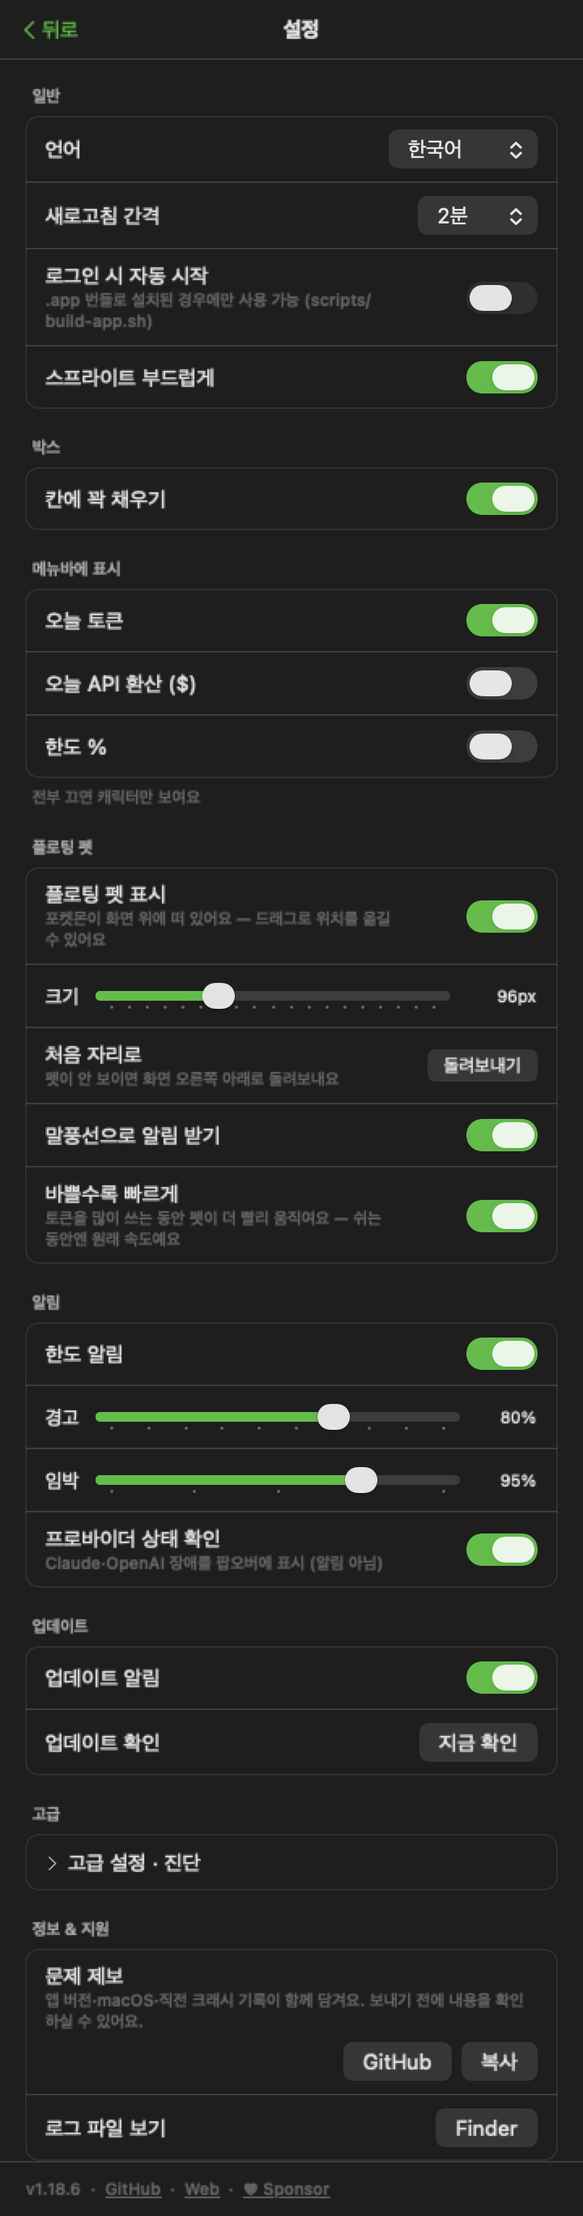
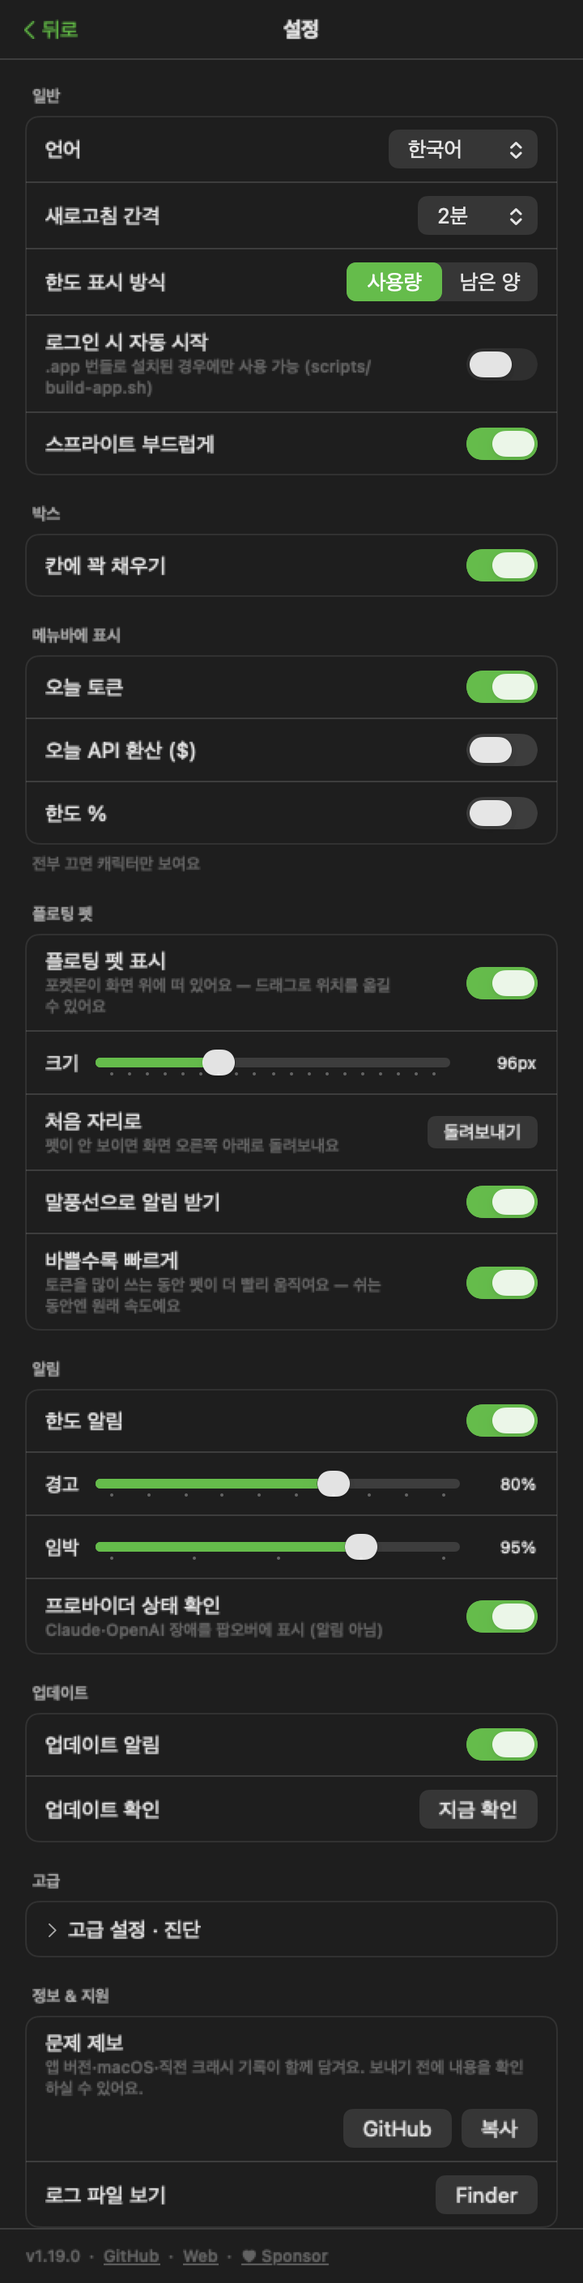
docs: tour the usage recap, pace gauges and multi-account limits (en/ko/ja)
Two new screenshots (usage recap, Claude account tabs) join the tour
and the feature list; the privacy section now names claude.ai as the
ninth host (session-key path, only when a key is pasted) and documents
the plaintext owner-only key file. The screenshot generator seeds a
day ledger for the recap shot, builds a stubbed two-account store for
the accounts shot, and isolates LastCrash so the crash banner planted
for report.png no longer leaks into every later home-family shot.

diff --git a/Tests/PokeDexBarTests/ScreenshotGenerator.swift b/Tests/PokeDexBarTests/ScreenshotGenerator.swift
@@ -561,16 +561,94 @@ final class ScreenshotGeneratorTests: XCTestCase {
         limits.subscriptionType = "max"
         limits.rateLimitTier = "default_claude_max_20x"
 
+        let defaults = UserDefaults(suiteName: "ptb-shot-usage-\(UUID().uuidString)")!
+        // 리캡(#332)용 일별 원장 — 지난 5주를 "주중 많고 주말 쉬는" 리듬으로 시드한다.
+        var ledger = UsageLedger()
+        let dayFmt = LocalUsageReader.localDayFormatter()
+        let calendar = Calendar.current
+        ledger.merge((0..<35).reversed().map { back -> DailyUsage in
+            let date = calendar.date(byAdding: .day, value: -back, to: now)!
+            let weekday = calendar.component(.weekday, from: date)
+            let weekend = weekday == 1 || weekday == 7
+            let tokens = weekend ? (back % 3 == 0 ? 2_400_000 : 0)
+                                 : (14_000_000 + (back * 37 % 11) * 2_600_000)
+            return DailyUsage(date: dayFmt.string(from: date), inputTokens: tokens / 2,
+                              outputTokens: tokens / 2, cacheCreationTokens: 0, cacheReadTokens: 0,
+                              totalTokens: tokens, totalCost: 0)
+        })
+        ledger.save(to: defaults)
         let store = UsageStore(providers: providers,
                                claudeLimitsProvider: StubClaudeLimits(status: limits),
                                codexLimitsProvider: StubCodexLimits(),
                                statusProvider: StubStatusProvider(),
                                autoRefresh: false,
-                               defaults: UserDefaults(suiteName: "ptb-shot-usage-\(UUID().uuidString)")!)
+                               defaults: defaults)
         await store.refresh(scheduleEmptyRetry: false)
         XCTAssertGreaterThan(store.todayTotalTokens, 0, "사용량 시드가 안 들어갔다")
         XCTAssertNotNil(store.limits?.fiveHour?.utilization, "공식 한도 시드가 안 들어갔다")
         XCTAssertNotNil(store.fiveHourForecast, "소진 예측 줄이 안 나온다 — 블록/한도 시드가 어긋났다")
+        return store
+    }
+
+    /// 다중 계정 샷(#327)용 — 기본 계정(개인 Max) + 회사 폴더 계정. 폴더·자격증명은 전부 스텁이라
+    /// 실 디스크·Keychain 을 건드리지 않는다.
+    private func makeMultiAccountUsageStore() async throws -> UsageStore {
+        let base = try await makeUsageStore()
+        _ = base   // 시드 검증 재사용 목적 없음 — 아래는 별도 스토어
+
+        let iso = ISO8601DateFormatter()
+        let now = Date()
+        func status(fiveHour: Double, sevenDay: Double, email: String, org: String?) throws -> LimitStatus {
+            let json = """
+            {"five_hour":{"utilization":\(fiveHour),
+              "resets_at":"\(iso.string(from: now.addingTimeInterval(96 * 60)))"},
+             "seven_day":{"utilization":\(sevenDay),
+              "resets_at":"\(iso.string(from: now.addingTimeInterval(3.2 * 86_400)))"}}
+            """
+            var s = try JSONDecoder().decode(LimitStatus.self, from: Data(json.utf8))
+            s.accountEmail = email
+            s.accountOrganizationName = org
+            return s
+        }
+        var personal = try status(fiveHour: ScreenshotFixture.fiveHourUtilization,
+                                  sevenDay: ScreenshotFixture.sevenDayUtilization,
+                                  email: "mina@example.com", org: nil)
+        personal.subscriptionType = "max"
+        personal.rateLimitTier = "default_claude_max_20x"
+        let work = try status(fiveHour: 71, sevenDay: 48, email: "mina@acme.dev", org: "Acme")
+
+        let workRoot = URL(fileURLWithPath: NSHomeDirectory()).appendingPathComponent(".claude-work")
+        let providers: [any UsageProvider] = ScreenshotFixture.usage.map { entry in
+            var enrichment = ProviderEnrichment()
+            enrichment.periodsOK = true
+            enrichment.weekTotal = PeriodUsage(period: "week", totalTokens: entry.week,
+                                               totalCost: entry.weekCost)
+            enrichment.monthTotal = PeriodUsage(period: "month", totalTokens: entry.month,
+                                                totalCost: entry.monthCost)
+            let total = entry.input + entry.output + entry.cacheWrite + entry.cacheRead
+            let daily = DailyUsage(date: LocalUsageReader.todayKey(), inputTokens: entry.input,
+                                   outputTokens: entry.output, cacheCreationTokens: entry.cacheWrite,
+                                   cacheReadTokens: entry.cacheRead, totalTokens: total, totalCost: entry.cost)
+            return StubUsageProvider(id: entry.id, displayName: entry.name, daily: daily, enrichment: enrichment)
+        }
+        let store = UsageStore(
+            providers: providers,
+            claudeLimitsProvider: StubClaudeLimits(status: personal),
+            additionalClaudeLimitsProvider: { _ in StubClaudeLimits(status: work) },
+            discoverClaudeConfigDirs: { [workRoot] },
+            readDefaultIdentity: { AccountIdentity(email: "mina@example.com", organizationName: nil) },
+            readLastPrompt: { root in
+                root.lastPathComponent == ".claude-work" ? now.addingTimeInterval(-40 * 60)
+                                                         : now.addingTimeInterval(-6 * 60)
+            },
+            claudeUsageEntries: { _ in [] },
+            readPromptHistory: { _ in [:] },
+            codexLimitsProvider: StubCodexLimits(),
+            statusProvider: StubStatusProvider(),
+            autoRefresh: false,
+            defaults: UserDefaults(suiteName: "ptb-shot-accounts-\(UUID().uuidString)")!)
+        await store.refresh(scheduleEmptyRetry: false)
+        XCTAssertEqual(store.claudeAccounts.count, 2, "계정 탭 시드가 안 들어갔다")
         return store
     }
 
@@ -902,6 +980,14 @@ final class ScreenshotGeneratorTests: XCTestCase {
         }
         defer { AppEnv.appVersionOverride = nil }
 
+        // 크래시 배너는 머신 상태다 — 실 앱의 last-crash 기록이 남아 있으면 모든 홈 계열 샷에
+        // "예기치 않게 종료" 카드가 끼어든다(실측: 1.19.0 재생성 때 홈·계정 샷에 혼입).
+        // 전용 샷(report.png)만 자체 픽스처로 찍고, 나머지는 빈 임시 파일을 보게 한다.
+        let realCrashURL = LastCrash.fileURL
+        LastCrash.fileURL = FileManager.default.temporaryDirectory
+            .appendingPathComponent("ptb-shot-lastcrash-\(UUID().uuidString).json")
+        defer { LastCrash.fileURL = realCrashURL }
+
         // 디스크에서 읽어 오는 그림은 **미리 캐시에 올려 둔다.** 첫 접근이 디스크 읽기 + PNG
         // 디코드를 동기로 하는데, 아래 애니메이션 캡처는 `pump(0.05)` 창 안에서 레이아웃이
         // 끝나기를 기대한다 — 그 창에 디코드가 끼면 프레임 간격이 밀리고 연출 단계가 잘린다
@@ -1066,7 +1152,11 @@ final class ScreenshotGeneratorTests: XCTestCase {
         // 심어야 배너가 찍힌다** — 안 심으면 아무리 다시 생성해도 빈 자리만 나온다(설정
         // 스크린샷에 플로팅 펫이 꺼져 있어 새 토글이 영영 안 찍히던 함정과 같은 부류).
         // §릴리스 1 하드 게이트가 요구하는 신규 에셋이 이것이다.
+        // crashReportBanner 는 전역 LastCrash.fileURL 에 미확인 기록을 심는다 — 복원하지 않으면
+        // 이후의 홈 계열 샷(계정 탭·home.gif)에 크래시 배너가 끼어든다(실측).
+        let cleanCrashURL = LastCrash.fileURL
         try write(png(crashReportBanner()), "report.png")
+        LastCrash.fileURL = cleanCrashURL
 
         // 태어날 때 정해지는 겉모습 — 이름 옆 배지가 그 개체가 어떤 무늬로 태어났는지 말한다.
         // 지방 배지와 같은 자리를 쓰므로, 이 그림 하나로 두 규칙이 같이 설명된다.
@@ -1127,6 +1217,29 @@ final class ScreenshotGeneratorTests: XCTestCase {
                           fullScroll: true),
                       "settings\(suffix).png")
         }
+
+        // 사용량 리캡(#332) — 주간 화면. 원장은 makeUsageStore 가 시드한다(오늘 기준 상대 날짜라
+        // 돌릴 때마다 모양이 같다 — 요일 축만 실행 요일을 따른다).
+        setLanguage(.en, fixture)
+        let recapUsage = try waitFor { try await self.makeUsageStore() }
+        recapUsage.localizationLanguage = .en
+        try write(png(RecapScreen(store: recapUsage, player: fixture.player, onBack: {})
+            .environment(recapUsage).environment(fixture.player)
+            .padding(PopoverMetrics.padding)
+            .frame(width: PopoverMetrics.width)
+            .background(Color(nsColor: .windowBackgroundColor))),
+                  "screenshot-usage-recap.png")
+
+        // 다중 Claude 계정(#327) + 계정 라벨(#199) — 홈 탭 한도 섹션의 계정 탭.
+        let accountsUsage = try waitFor { try await self.makeMultiAccountUsageStore() }
+        accountsUsage.localizationLanguage = .en
+        try write(png(PopoverView(player: fixture.player, provider: StubProvider())
+            .environment(accountsUsage).environment(fixture.player)
+            .environment(fixture.updater).environment(PopoverNavigation())
+            .environment(\.locale, Locale(identifier: "en_US"))
+            .background(Color(nsColor: .windowBackgroundColor)),
+                      fullScroll: true),
+                  "screenshot-claude-accounts.png")
 
         try generateAnimations()
     }

diff --git a/README.ko.md b/README.ko.md
@@ -55,6 +55,20 @@ PokeDexBar는 당신이 이미 태우고 있는 AI 코딩 토큰(Claude Code · 
 </td>
 </tr>
 <tr>
+<td width="45%" align="center"><img src="assets/screenshot-usage-recap.png" width="340" alt="사용량 리캡 — 레트로 휴대기기 프레임 위 일별 막대, 최고의 날·활동한 날·연속 기록·지난주 비교"></td>
+<td width="55%" valign="middle">
+<h3>📊 사용량 다시 보기</h3>
+아무 주·월·연도의 리캡: 일별 막대, 최고의 날, 활동한 날, 최장 연속, 그리고 직전 기간과의 비교. 앱이 스스로 쌓는 로컬 일별 원장으로 그려서 이번 달 너머까지 닿고 — 설치 전의 날들은 0이 아니라 "기록 없음"으로 표시됩니다.
+</td>
+</tr>
+<tr>
+<td width="45%" align="center"><img src="assets/screenshot-claude-accounts.png" width="340" alt="홈 탭의 공식 한도 아래 Claude 계정 탭 두 개 — 개인 Max 플랜과 팀 계정, 각자의 5시간·주간 바와 페이스 눈금"></td>
+<td width="55%" valign="middle">
+<h3>Claude 로그인 두 개, 탭 두 개</h3>
+나란히 쓰는 Claude Code 로그인(<code>CLAUDE_CONFIG_DIR</code>, <code>~/.claude-*</code> 폴더)마다 공식 한도에 전용 탭이 생기고, 알림과 로컬 사용량도 계정별로 갈립니다. 메뉴바는 설정에서 고른 계정을 따라가요. Keychain 프롬프트가 성가시다면 <b>claude.ai 세션 키</b>를 붙여넣으세요 — 그다음부터 한도는 Keychain 없이 백그라운드에서 계속 갱신됩니다.
+</td>
+</tr>
+<tr>
 <td width="55%" valign="middle">
 <h3>메뉴바 속 파트너</h3>
 움직이는 Gen-V 스프라이트가 오늘 토큰 합계(compact, 예: <code>200.7M</code>) 옆에 삽니다. 오늘 API 환산(<code>$</code>)이나 공식 한도 <code>%</code> 를 더하거나 — 전부 꺼서 캐릭터만 남길 수도 있어요.
@@ -307,7 +321,12 @@ PokeDexBar는 당신이 이미 태우고 있는 AI 코딩 토큰(Claude Code · 
 
 - **인터랙티브 플로팅 펫** — 호버로 오늘 사용량, 클릭으로 메인 창, 우클릭 메뉴; 한도 알림은 말풍선으로도 표시. **토큰을 많이 쓰는 동안에는 더 빨리 움직이고** 쉬는 동안엔 원래 속도예요(설정, 기본 켬).
 - **서비스별 탭** — Claude Code·Codex·Gemini CLI·OpenCode·Hermes Agent·Cursor·Grok CLI 중 2개 이상 감지되면 작은 탭으로 상세를 서비스별 전환(오늘 합계는 통합 유지).
-- **공식 한도** — Claude·Codex 5시간/주간 사용률 + 리셋 카운트다운을 오늘 숫자 바로 아래에.
+- **공식 한도** — Claude·Codex 5시간/주간 사용률 + 리셋 카운트다운과 절대 리셋 시각을 오늘 숫자 바로 아래에. 퍼센트는 **사용/잔여** 중 원하는 쪽으로.
+- **페이스 게이지** — 모든 쿼터바에 "균등하게 썼다면 여기" 눈금이 서고, 바(원하면 메뉴바 % 까지)가 페이스 대비 6단계 색으로 칠해집니다.
+- **일별 트렌드** — 합계 아래 이번 달 일별 막대. 달력 월 기준으로 자리 잡고, 두 도구 이상을 쓴 달엔 프로바이더별로 쌓입니다. 막대에 호버하면 그날의 숫자.
+- **사용량 리캡** — 주/월/연 다시 보기: 최고의 날·활동한 날·최장 연속·직전 기간 같은-날짜 비교.
+- **Claude 다중 계정** — 추가 Claude Code 설정 폴더를 자동 감지(또는 설정에 등록)해 계정마다 전용 한도 탭·알림·사용량 분배. 포크된 세션은 원래 계정에 남습니다.
+- **claude.ai 세션 키(선택)** — `sessionKey` 쿠키를 한 번 붙여넣으면 Keychain 접근 없이 공식 한도가 자동 갱신됩니다. 추가 계정도 각자 키를 가질 수 있어요.
 - **소진 예측** — 현재 5시간 창이 100%에 도달할 시각 예측.
 - **인앱 업데이트** — 원클릭 업데이트 확인, 설정에 현재 버전 표시.
 - **메가진화 & 거다이맥스** — 메가스톤이나 다이버섯으로 지정한 포켓몬을 80종의 폼 중 하나로 바꿉니다(리자몽처럼 메가 폼이 둘인 종은 X/Y 모두 제공). 원래 모습으로 되돌리는 건 무료고, 진화하면 폼이 풀립니다.
@@ -385,8 +404,8 @@ swift test                   # 단위 테스트
 ## 프라이버시 & 권한
 
 - **온디바이스.** 토큰 사용량은 로컬 Claude Code·Codex·Gemini CLI·OpenCode·Hermes Agent·Cursor·Grok CLI 데이터에서 직접 읽습니다. 사용량을 업로드하거나 모델 turn을 실행하지 않습니다.
-- **외부 요청.** 앱은 완전 오프라인이 아닙니다. 8개 호스트에 접속합니다 — `pokeapi.co`·`graphql.pokeapi.co`(종·진화 데이터), `play.pokemonshowdown.com`(포켓몬 스프라이트), `raw.githubusercontent.com`(아이템·알 스프라이트), `api.anthropic.com`(Claude 공식 한도), `status.claude.com`·`status.openai.com`(장애 배너 — 설정에서 끌 수 있음), `api.github.com`(업데이트 확인). **어느 요청에도 사용량·토큰·프롬프트·프로젝트 경로는 담기지 않습니다** — 요청 자체만 나갑니다.
-- **Keychain(선택).** Claude OAuth 자격증명은 **갱신 버튼을 누를 때만** 읽습니다(설정, 또는 팝오버의 한도 행). 자동 폴링은 Keychain 을 건드리지 않으므로 비밀번호 프롬프트가 뜨지 않고, `~/.claude/.credentials.json` 이 있으면 그쪽에서 가져옵니다. 토큰은 메모리에만 두며 **앱 자체 Keychain 항목은 만들지 않습니다.** 토큰이 만료되면 한도는 갱신 전까지 이전 값(stale)으로 표시됩니다. 설정에서 끄면 한도 섹션만 숨겨집니다.
+- **외부 요청.** 앱은 완전 오프라인이 아닙니다. 9개 호스트에 접속합니다 — `pokeapi.co`·`graphql.pokeapi.co`(종·진화 데이터), `play.pokemonshowdown.com`(포켓몬 스프라이트), `raw.githubusercontent.com`(아이템·알 스프라이트), `api.anthropic.com`(Claude 공식 한도), `claude.ai`(세션 키로 한도 조회 — 키를 넣었을 때만), `status.claude.com`·`status.openai.com`(장애 배너 — 설정에서 끌 수 있음), `api.github.com`(업데이트 확인). **어느 요청에도 사용량·토큰·프롬프트·프로젝트 경로는 담기지 않습니다** — 요청 자체만 나갑니다.
+- **Keychain(선택).** Claude OAuth 자격증명은 **갱신 버튼을 누를 때만** 읽습니다(설정, 또는 팝오버의 한도 행). 자동 폴링은 Keychain 을 건드리지 않으므로 비밀번호 프롬프트가 뜨지 않고, `~/.claude/.credentials.json` 이 있으면 그쪽에서 가져옵니다. 토큰은 메모리에만 두며 **앱 자체 Keychain 항목은 만들지 않습니다.** 토큰이 만료되면 한도는 갱신 전까지 이전 값(stale)으로 표시됩니다. Keychain 을 아예 쓰고 싶지 않다면 설정 → 고급에 **claude.ai 세션 키**를 붙여넣으세요: 앱 폴더에 본인만 읽을 수 있는 평문 파일로 저장되고(암호화 아님 — 설정이 그 사실을 먼저 알립니다), 브라우저에서 로그아웃하면 즉시 무효화되며, 그다음부터 자동 폴링이 Keychain 을 전혀 건드리지 않고 한도를 갱신합니다. 설정에서 Keychain 을 끄면 한도 섹션만 숨겨집니다(세션 키가 있으면 계속 보입니다).
 - **포켓몬 에셋**은 런타임에 받아오며(종·진화 데이터는 PokéAPI, 스프라이트는 Pokémon Showdown) `~/Library/Application Support/PokeDexBar/`에만 캐시됩니다. 앱 바이너리와 릴리스 아티팩트에는 포켓몬 에셋이 포함되지 않습니다.
 
 ## 기여자

diff --git a/README.md b/README.md
@@ -55,6 +55,20 @@ Move your companion out of the menu bar and onto the desktop, at any size from 4
 </td>
 </tr>
 <tr>
+<td width="45%" align="center"><img src="assets/screenshot-usage-recap.png" width="340" alt="Usage recap — a week of day-by-day bars on a retro handheld frame, with best day, active days, streak and a comparison with last week"></td>
+<td width="55%" valign="middle">
+<h3>📊 Your usage, replayed</h3>
+A recap for any week, month or year: day-by-day bars, your best day, active days, longest streak, and how the period compares with the one before it. It is built from a local day ledger the app keeps itself, so it reaches past the current month — and days from before the app was installed are shown as unknown, not as zero.
+</td>
+</tr>
+<tr>
+<td width="45%" align="center"><img src="assets/screenshot-claude-accounts.png" width="340" alt="Home tab with two Claude account tabs under Limits (official) — a personal Max plan and a team account, each with its own 5-hour and weekly bars with pace markers"></td>
+<td width="55%" valign="middle">
+<h3>Two Claude logins, two tabs</h3>
+Side-by-side Claude Code logins (<code>CLAUDE_CONFIG_DIR</code>, <code>~/.claude-*</code> folders) each get their own tab in the official limits, with their own alerts and their own share of local usage. The menu bar follows the account you pick in Settings. And if the Keychain prompt bothers you, paste a <b>claude.ai session key</b> instead — limits then refresh in the background with no Keychain at all.
+</td>
+</tr>
+<tr>
 <td width="55%" valign="middle">
 <h3>In your menu bar</h3>
 An animated Gen-V sprite lives next to today's total tokens (compact, e.g. <code>200.7M</code>). Add today's API equivalent (<code>$</code>) or official limit <code>%</code> — or turn everything off for a character-only bar.
@@ -307,7 +321,12 @@ The shop sells seven things. The other 105 items only ever arrive in a partner's
 
 - **Interactive floating pet** — hover for today's usage, click to open the main window, right-click for a menu; limit alerts can pop up as speech bubbles. It also **moves faster while you're burning tokens** and idles at its normal speed (optional, on by default).
 - **Per-service tabs** — when two or more of Claude Code, Codex, Gemini CLI, OpenCode, Hermes Agent, Cursor, and Grok CLI are detected, compact tabs switch between them; today's total stays combined.
-- **Official limits** — Claude & Codex 5-hour / weekly utilization with reset countdowns, right under today's numbers.
+- **Official limits** — Claude & Codex 5-hour / weekly utilization with reset countdowns and the absolute reset time, right under today's numbers. Show percentages as **used or remaining** — your choice.
+- **Pace-aware gauges** — every quota bar carries a tick for where an even burn would be, and the bar (and, if you like, the menu-bar %) is coloured on a six-step scale from way-under to way-over pace.
+- **Daily trend** — this month's day-by-day bars under the totals, laid out on the calendar month and stacked per provider when more than one was used; hover a bar for that day's numbers.
+- **Usage recap** — a week / month / year replay with best day, active days, longest streak and a same-days comparison with the previous period.
+- **Multiple Claude accounts** — extra Claude Code config folders are detected (or listed in Settings) and each account gets its own limits tab, alerts and usage split; forked sessions stay with the account that started them.
+- **claude.ai session key (optional)** — paste the `sessionKey` cookie once and official limits refresh automatically with no Keychain access at all; each extra account can carry its own key.
 - **Burn-rate forecast** — projects when the current 5h window hits 100%.
 - **In-app updates** — one-click update check; current version shown in Settings.
 - **Mega Evolution & Gigantamax** — a Mega Stone or Max Mushroom reshapes a chosen Pokémon into one of 80 catalogued forms (species with two Mega forms, like Charizard, offer both); reverting to normal is free, and evolving clears the form.
@@ -384,8 +403,8 @@ swift test                   # unit tests
 ## Privacy & permissions
 
 - **On-device.** Token usage is read directly from local Claude Code, Codex, Gemini CLI, OpenCode, Hermes Agent, Cursor, and Grok CLI data. The app never uploads usage or runs model turns.
-- **Outbound requests.** The app is not fully offline. It talks to eight hosts: `pokeapi.co` and `graphql.pokeapi.co` (species/evolution data), `play.pokemonshowdown.com` (Pokémon sprites), `raw.githubusercontent.com` (item &amp; egg sprites), `api.anthropic.com` (Claude official limits), `status.claude.com` and `status.openai.com` (incident banner — off switch in Settings), and `api.github.com` (update check). **None of them carry your usage, tokens, prompts, or project paths** — only the request itself.
-- **Keychain (optional).** The Claude OAuth credential is read **only when you press a refresh button** (Settings, or the limits row in the popover). Automatic polling never touches the Keychain, so it never raises a password prompt; when available, the credential is taken from `~/.claude/.credentials.json` instead. The token is held in memory only — the app creates no Keychain item of its own. Once the token expires, limits stay visible but stale until you refresh. Turn it off in Settings — the limits section simply hides.
+- **Outbound requests.** The app is not fully offline. It talks to nine hosts: `pokeapi.co` and `graphql.pokeapi.co` (species/evolution data), `play.pokemonshowdown.com` (Pokémon sprites), `raw.githubusercontent.com` (item &amp; egg sprites), `api.anthropic.com` (Claude official limits), `claude.ai` (official limits via your session key — only if you paste one), `status.claude.com` and `status.openai.com` (incident banner — off switch in Settings), and `api.github.com` (update check). **None of them carry your usage, tokens, prompts, or project paths** — only the request itself.
+- **Keychain (optional).** The Claude OAuth credential is read **only when you press a refresh button** (Settings, or the limits row in the popover). Automatic polling never touches the Keychain, so it never raises a password prompt; when available, the credential is taken from `~/.claude/.credentials.json` instead. The token is held in memory only — the app creates no Keychain item of its own. Once the token expires, limits stay visible but stale until you refresh. Prefer no Keychain at all? Paste a **claude.ai session key** in Settings → Advanced: it is stored as an owner-only plain file in the app folder (not encrypted — Settings says so up front), it is invalidated the moment you log out in your browser, and automatic polling then refreshes limits without ever touching the Keychain. Turn the Keychain off in Settings — the limits section simply hides (unless a session key keeps it alive).
 - **Pokémon assets** are fetched at runtime — species/evolution data from PokéAPI, sprites from Pokémon Showdown — and cached only under `~/Library/Application Support/PokeDexBar/`. The app binary and its release artifacts contain no Pokémon assets.
 
 ## Contributors
